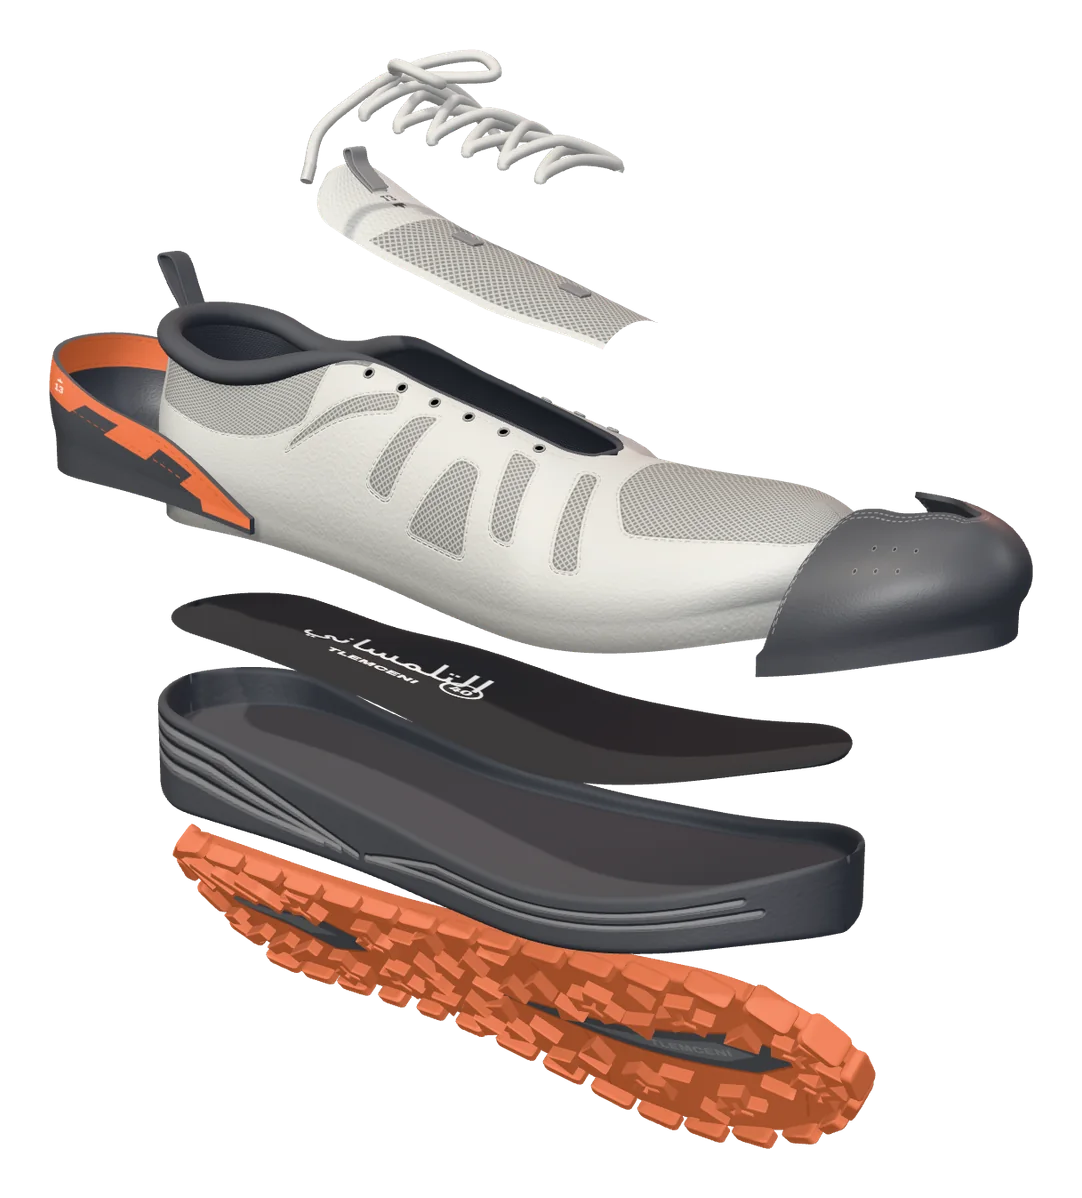
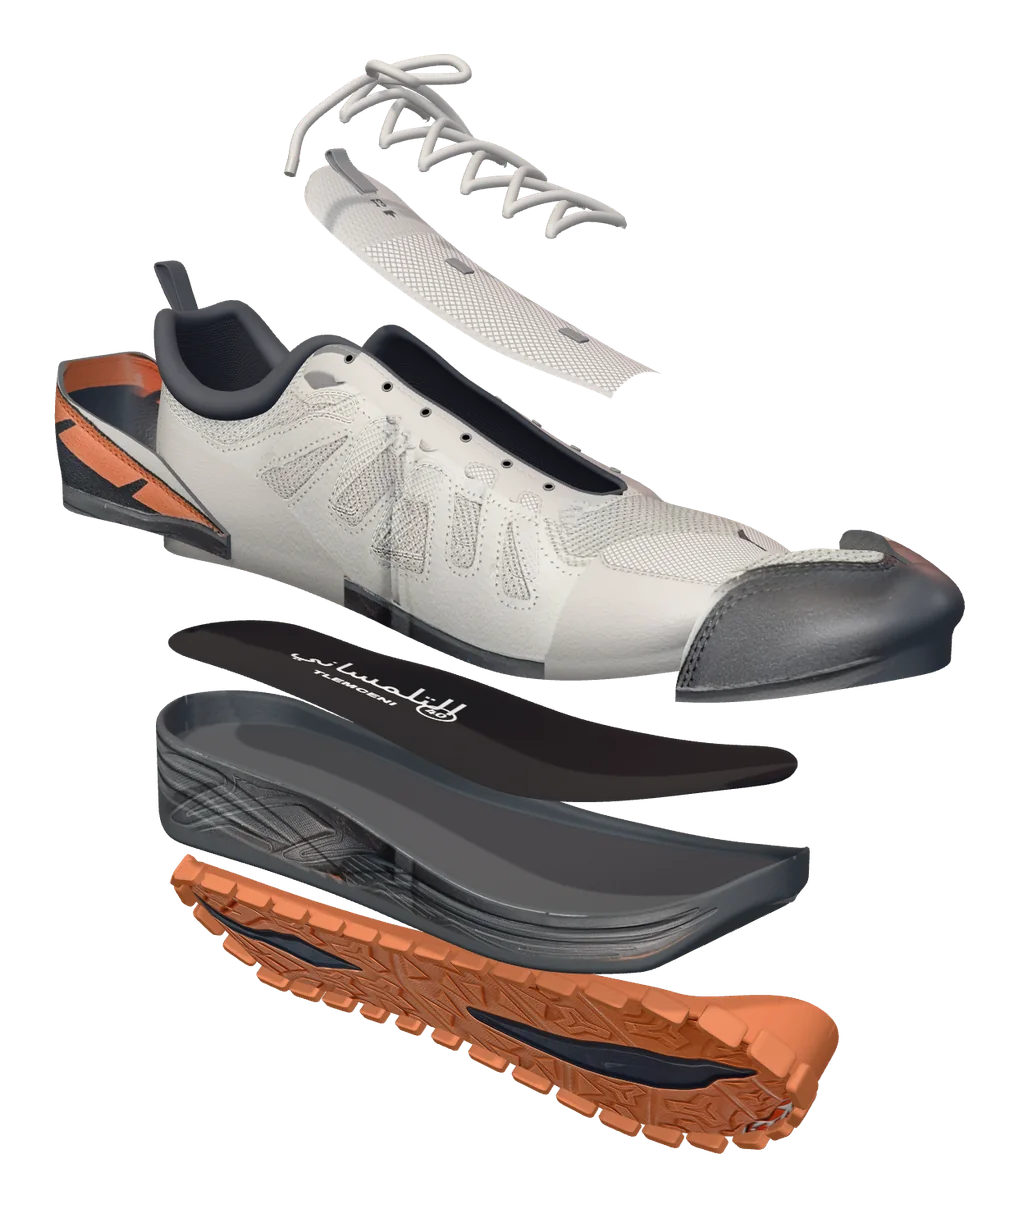
Démo tlemceni : la basket 3D habillée avec les vraies photos du modèle
- Tige, contrefort, pare-pierre et semelle intermédiaire : photos des
  deux profils projetées sur chaque pièce (lacet et pouce effacés)
- Dessous : photo de la semelle recalée sur le contour du modèle, avec
  le relief des crampons tiré de la photo
- Dessus de l'avant-pied et du bout : photo vue de dessus
- Proportions reprises sur la photo de profil (col, laçage, semelle,
  bande orange du talon, bout)
- Coloris « photo » dans content.json, interrupteur dans l'admin ;
  rendus et image de partage refaits

Claude-Session: https://claude.ai/code/session_0119pnVK6Q9DTSQBA1s2pKvM

Changed region(s): [[0.0304, 0.0309, 0.9735, 0.9574]]

diff --git a/sites/tlemceni/sneaker.js b/sites/tlemceni/sneaker.js
@@ -37,9 +37,10 @@ function curve1(pts) {
 /* côté extérieur (latéral) en z positif, sol en y = 0.                */
 /* ------------------------------------------------------------------ */
 const L = 2.9, X0 = -1.45, X1 = 1.45;
-const X_BACK = -1.36, X_THROAT = 0.52, X_RIDGE_END = 1.3;
+const X_BACK = -1.36, X_THROAT = 0.7, X_RIDGE_END = 1.3;
 const RIM = 0.045; // épaisseur du rebord de la semelle intermédiaire
-const OUT_T = 0.06; // épaisseur de la semelle extérieure (hors crampons)
+// épaisseur de la semelle extérieure (hors crampons) : elle remonte sur la pointe et un peu au talon
+const outT = (x) => 0.06 + 0.2 * smooth(1.1, 1.47, x) + 0.04 * smooth(-1.2, -1.45, x);
 const LUG = 0.045; // hauteur des crampons
 
 // demi-largeurs de la semelle (avant arrondi du talon et de la pointe)
@@ -65,15 +66,16 @@ function halfW(x, side, inset = 0) {
 
 const spring = (x) => 0.14 * smooth(0.25, 1.45, x) ** 2; // la pointe se relève
 const bevel = (x) => 0.05 * smooth(-1.05, -1.45, x) ** 2; // biseau du talon
-const footbed = (x) => lerp(0.285, 0.185, smooth(-0.95, 0.65, x)); // 10 mm de drop
-const RIM_L = curve1([[-1.45, 0.15], [-1.15, 0.13], [-0.8, 0.08], [-0.5, 0.058], [0, 0.055], [0.6, 0.062], [1.1, 0.072], [1.3, 0.09], [1.45, 0.12]]);
-const RIM_M = curve1([[-1.45, 0.15], [-1.15, 0.13], [-0.8, 0.088], [-0.5, 0.08], [-0.1, 0.072], [0.4, 0.062], [1.1, 0.072], [1.3, 0.09], [1.45, 0.12]]);
+const footbed = (x) => lerp(0.37, 0.24, smooth(-0.95, 0.65, x)); // 13 mm de drop
+const RIM_L = curve1([[-1.45, 0.15], [-1.2, 0.12], [-1.0, 0.1], [-0.8, 0.088], [-0.6, 0.089], [-0.3, 0.1], [-0.1, 0.088], [0.1, 0.074], [0.3, 0.061], [0.5, 0.055], [0.7, 0.05], [1.0, 0.043], [1.1, 0.045], [1.2, 0.058], [1.3, 0.087], [1.38, 0.128], [1.45, 0.16]]);
+const RIM_M = curve1([[-1.45, 0.15], [-1.2, 0.12], [-1.0, 0.1], [-0.8, 0.09], [-0.6, 0.096], [-0.3, 0.108], [-0.1, 0.095], [0.1, 0.08], [0.3, 0.064], [0.5, 0.056], [0.7, 0.05], [1.0, 0.043], [1.1, 0.045], [1.2, 0.058], [1.3, 0.087], [1.38, 0.128], [1.45, 0.16]]);
 const rimY = (x, side) => footbed(x) + (side > 0 ? RIM_L(x) : RIM_M(x));
 
-// ouverture du chaussant : demi-largeur, hauteur du bord ; arête du dessus de pied
-const OW = curve1([[-1.36, 0.25], [-1.1, 0.27], [-0.85, 0.262], [-0.6, 0.205], [-0.4, 0.155], [0, 0.138], [0.3, 0.128], [0.52, 0.12]]);
-const OY = curve1([[-1.36, 0.95], [-1.25, 0.915], [-1.0, 0.835], [-0.78, 0.85], [-0.6, 0.9], [-0.42, 0.925], [-0.1, 0.855], [0.25, 0.775], [0.52, 0.705]]);
-const RY = curve1([[0.52, 0.705], [0.8, 0.665], [1.05, 0.62], [1.2, 0.585], [1.3, 0.55]]);
+// ouverture du chaussant : demi-largeur, hauteur du bord ; arête du dessus de pied.
+// Hauteurs relevées sur la photo de profil du modèle (col haut au talon, laçage long).
+const OW = curve1([[-1.36, 0.25], [-1.1, 0.27], [-0.85, 0.262], [-0.6, 0.205], [-0.4, 0.155], [0, 0.138], [0.3, 0.128], [0.52, 0.12], [0.7, 0.112]]);
+const OY = curve1([[-1.36, 1.2], [-1.3, 1.225], [-1.25, 1.155], [-1.2, 1.08], [-1.1, 0.993], [-1.0, 0.957], [-0.9, 0.953], [-0.8, 0.97], [-0.7, 1.018], [-0.6, 1.13], [-0.52, 1.2], [-0.45, 1.222], [-0.3, 1.186], [-0.1, 1.085], [0.1, 1.008], [0.3, 0.921], [0.5, 0.849], [0.7, 0.785]]);
+const RY = curve1([[0.7, 0.785], [0.8, 0.753], [0.9, 0.728], [1.0, 0.7], [1.1, 0.665], [1.2, 0.618], [1.3, 0.565]]);
 function openW(x) {
   const a = X_BACK, b = X_THROAT;
   if (x <= a || x >= b) return 0;
@@ -621,13 +623,13 @@ export function createSneaker({ quality = 1 } = {}) {
 
   // Relevé sur les photos du modèle : fenêtres de maille sous les renforts lisses.
   // Côté extérieur : grande fenêtre sous le col, cinq fentes arrondies en éventail, avant-pied en maille.
-  const REAR_L = [[-1.27, 0.56], [-0.7, 0.48], [-0.56, 0.52], [-0.5, 1.04], [-1.27, 1.04]];
+  const REAR_L = [[-1.4, 0.87], [-1.22, 0.74], [-0.99, 0.8], [-0.8, 0.71], [-0.67, 0.69], [-0.56, 0.68], [-0.5, 1.04], [-1.4, 1.04]];
   const SLOTS_L = [
-    [[-0.615, 0.385], [-0.6, 0.425], [-0.19, 0.8], [-0.175, 0.69]],
-    [[-0.09, 0.71], [0.0, 0.77], [-0.125, 0.285], [-0.227, 0.315]],
-    [[0.147, 0.61], [0.237, 0.6], [0.243, 0.19], [-0.018, 0.2]],
-    [[0.317, 0.79], [0.419, 0.78], [0.442, 0.335], [0.352, 0.345]],
-    [[0.538, 0.79], [0.6, 0.78], [0.707, 0.28], [0.611, 0.28]],
+    [[-0.693, 0.479], [-0.682, 0.514], [-0.264, 0.652], [-0.259, 0.565]],
+    [[-0.165, 0.624], [-0.071, 0.724], [-0.189, 0.256], [-0.306, 0.235]],
+    [[0.082, 0.586], [0.176, 0.624], [0.181, 0.261], [-0.089, 0.177]],
+    [[0.258, 0.751], [0.364, 0.804], [0.388, 0.423], [0.294, 0.396]],
+    [[0.488, 0.771], [0.552, 0.788], [0.663, 0.395], [0.563, 0.379]],
   ];
   // Côté intérieur : fenêtres en triangle et trapèze, soulignées de lignes noires « circuit ».
   const REAR_M = [[-1.22, 0.62], [-0.68, 0.55], [-0.57, 0.62], [-0.54, 1.04], [-1.22, 1.04]];
@@ -644,8 +646,8 @@ export function createSneaker({ quality = 1 } = {}) {
     { w: 1, dash: true, pts: [[0.51, 0.28], [0.51, 0.66]] },
     { w: 0.4, pts: [[-0.62, 0.36], [-0.22, 0.17], [0.22, 0.17], [0.25, 0.11], [0.95, 0.11]] },
   ];
-  const VAMP = [[0.68, 1.04], [0.7, 0.74], [0.82, 0.5], [1.42, 0.46], [1.42, 1.04]];
-  const PATCH = [[-0.5, 0.86], [-0.36, 0.88], [-0.36, 0.975], [-0.5, 0.965]]; // pastille du dernier oeillet
+  const VAMP = [[0.74, 1.04], [0.77, 0.74], [0.88, 0.52], [1.42, 0.46], [1.42, 1.04]];
+  const PATCH = [[-0.52, 0.83], [-0.33, 0.85], [-0.33, 0.96], [-0.52, 0.95]]; // pastille du dernier oeillet
 
   // polygone (pixels) décalé de d vers l'extérieur
   function offsetPoly(P, d) {
@@ -814,7 +816,7 @@ export function createSneaker({ quality = 1 } = {}) {
   const matLaces = new THREE.MeshPhysicalMaterial({ color: '#d9d9d6', normalMap: braidN, normalScale: new THREE.Vector2(0.8, 0.8), roughness: 0.8, sheen: 0.7, sheenRoughness: 0.6 });
 
   /* ---------------- tige ---------------- */
-  const pUpper = part('upper', V3(-0.35, 0.62, 0.36), V3(0, 0, 0));
+  const pUpper = part('upper', V3(-0.3, 0.72, 0.4), V3(0, 0, 0));
   {
     const NT = hi ? 220 : 150, NV = hi ? 40 : 28;
     const cols = [];
@@ -860,7 +862,7 @@ export function createSneaker({ quality = 1 } = {}) {
     const curve = new THREE.CatmullRomCurve3(pts, false, 'centripetal');
     const rAt = (t) => {
       const p2 = curve.getPointAt(t);
-      return 0.012 + 0.03 * smooth(-0.25, -0.75, p2.x);
+      return 0.012 + 0.042 * smooth(-0.3, -0.75, p2.x) * (1 - 0.45 * smooth(-1.1, -1.36, p2.x));
     };
     const cg = tube(curve, hi ? 260 : 160, hi ? 14 : 10, rAt);
     // on descend légèrement le bourrelet pour qu'il chevauche le bord
@@ -890,7 +892,7 @@ export function createSneaker({ quality = 1 } = {}) {
   const eyelets = { 1: [], [-1]: [] };
   for (const side of [1, -1]) {
     for (let i = 0; i < EYE; i++) {
-      const x = lerp(0.38, -0.34, i / (EYE - 1));
+      const x = lerp(0.55, -0.35, i / (EYE - 1));
       const th = thetaAt(x, side);
       const T = upperPoint(th, 1);
       let t = 1, p = V3();
@@ -927,7 +929,7 @@ export function createSneaker({ quality = 1 } = {}) {
     pUpper.eyeletMat = matEyelet;
   }
 
-  const pLaces = part('laces', V3(-0.5, 1.02, 0.1), V3(0, 0.82, 0));
+  const pLaces = part('laces', V3(-0.2, 1.25, 0.1), V3(0, 0.82, 0));
   {
     const R = 0.019;
     const lift = (e, h) => e.p.clone().addScaledVector(e.n, h);
@@ -1019,14 +1021,14 @@ export function createSneaker({ quality = 1 } = {}) {
   const tongueColor = makeCanvas(512, 1024);
   const tongueN = keep(toTex(heightToNormal(meshTile(128), 3), false, [3, 6]));
   const matTongue = new THREE.MeshPhysicalMaterial({ map: keep(toTex(tongueColor, true)), normalMap: tongueN, normalScale: new THREE.Vector2(0.6, 0.6), roughness: 0.8, sheen: 0.5, sheenRoughness: 0.6 });
-  const pTongue = part('tongue', V3(-0.47, 0.99, 0), V3(-0.1, 0.48, 0));
+  const pTongue = part('tongue', V3(-0.47, 1.28, 0), V3(-0.1, 0.48, 0));
   const tongueCurve = new THREE.CatmullRomCurve3([
-    V3(0.72, RY(0.72) + spring(0.72) - 0.05, 0),
-    V3(0.45, OY(0.45) + spring(0.45) - 0.012, 0),
-    V3(0.1, OY(0.1) + spring(0.1) - 0.004, 0),
+    V3(0.9, RY(0.9) + spring(0.9) - 0.05, 0),
+    V3(0.63, OY(0.63) + spring(0.63) - 0.012, 0),
+    V3(0.2, OY(0.2) + spring(0.2) - 0.004, 0),
     V3(-0.26, OY(-0.26) + 0.004, 0),
-    V3(-0.42, 0.96, 0),
-    V3(-0.52, 1.045, 0),
+    V3(-0.42, OY(-0.42) + 0.045, 0),
+    V3(-0.52, OY(-0.52) + 0.12, 0),
   ], false, 'centripetal');
   const tongueLen = tongueCurve.getLength();
   {
@@ -1084,7 +1086,7 @@ export function createSneaker({ quality = 1 } = {}) {
   // --- semelle intérieure (anatomique, amovible)
   const insoleColor = makeCanvas(1024, 384);
   const matInsole = new THREE.MeshPhysicalMaterial({ map: keep(toTex(insoleColor, true)), normalMap: foamN, normalScale: new THREE.Vector2(0.4, 0.4), roughness: 0.92, sheen: 0.5, sheenRoughness: 0.7 });
-  const pInsole = part('insole', V3(-0.9, 0.42, 0), V3(0, -0.44, 0));
+  const pInsole = part('insole', V3(-0.9, 0.5, 0), V3(0, -0.44, 0));
   {
     const ins = IN + 0.004;
     const mid = (a, b) => {
@@ -1110,13 +1112,13 @@ export function createSneaker({ quality = 1 } = {}) {
   const midColor = makeCanvas(1024, 512);
   const midHeight = makeCanvas(1024, 512);
   const matMid = new THREE.MeshPhysicalMaterial({ map: keep(toTex(midColor, true)), roughness: 0.66, sheen: 0.2 });
-  const pMid = part('midsole', V3(-0.95, 0.26, 0.37), V3(0, -0.84, 0));
+  const pMid = part('midsole', V3(-0.95, 0.3, 0.37), V3(0, -0.84, 0));
   let midMarks;
   {
     const K = [];
     const sect = (x) => {
       const wl = halfW(x, 1), wm = halfW(x, -1);
-      const yb = bevel(x) + OUT_T, yf = footbed(x), rl = rimY(x, 1), rm = rimY(x, -1);
+      const yb = bevel(x) + outT(x), yf = footbed(x), rl = rimY(x, 1), rm = rimY(x, -1);
       const tl = Math.min(RIM, wl * 0.45), tm = Math.min(RIM, wm * 0.45);
       const rbl = Math.min(0.03, wl * 0.5), rbm = Math.min(0.03, wm * 0.5);
       const rfl = Math.min(0.014, (wl - tl) * 0.5), rfm = Math.min(0.014, (wm - tm) * 0.5);
@@ -1193,7 +1195,7 @@ export function createSneaker({ quality = 1 } = {}) {
   {
     const sect = (x) => {
       const wl = halfW(x, 1) * 1.012, wm = halfW(x, -1) * 1.012;
-      const yb = bevel(x), yt = yb + OUT_T;
+      const yb = bevel(x), yt = yb + outT(x);
       const rbl = Math.min(0.022, wl * 0.5), rbm = Math.min(0.022, wm * 0.5);
       const rtl = Math.min(0.008, wl * 0.3), rtm = Math.min(0.008, wm * 0.3);
       const P = pathBuilder();
@@ -1279,6 +1281,7 @@ export function createSneaker({ quality = 1 } = {}) {
     barShape.closePath();
     const geos = { y: ext(yShape), tri: ext(triShape), bar: ext(barShape) };
     const o = new THREE.Object3D();
+    pOut.bottomLugs = [];
     for (const type of Object.keys(geos)) {
       const list = LUGS.filter((l) => l.type === type);
       const m = new THREE.InstancedMesh(geos[type], matLug, list.length);
@@ -1293,6 +1296,7 @@ export function createSneaker({ quality = 1 } = {}) {
       m.castShadow = true;
       m.receiveShadow = true;
       pOut.group.add(m);
+      pOut.bottomLugs.push(m);
     }
     // crampons de bord, à pas régulier le long du contour
     const ring = [];
@@ -1393,9 +1397,10 @@ export function createSneaker({ quality = 1 } = {}) {
   const signedU = (theta) => (theta >= 0 ? arcU(theta) : arcU(1 + theta) - 1);
 
   // --- contrefort de talon : coque anthracite au bord en diagonale, bande orange zébrée
-  const XF_H = -0.2; // pointe avant du contrefort, au ras de la semelle
-  const hTop = (x) => 0.56 * clamp((XF_H - x) / (XF_H + 1.25)) + 0.03 * smooth(-1.25, -1.41, x);
-  const hBand = (x) => 0.29 * clamp((-0.46 - x) / (-0.46 + 1.25)) + 0.02 * smooth(-1.25, -1.41, x);
+  // bord haut et bas de la bande orange, relevés sur la photo (v : 0 au ras de la semelle, 1 au bord)
+  const XF_H = -0.28; // pointe avant du contrefort, au ras de la semelle
+  const hTop = curve1([[-1.42, 0.6], [-1.27, 0.58], [-1.1, 0.62], [-0.93, 0.55], [-0.75, 0.37], [-0.58, 0.18], [-0.41, 0.065], [XF_H, 0]]);
+  const hBand = curve1([[-1.42, 0.4], [-1.23, 0.33], [-1.04, 0.3], [-0.78, 0.156], [-0.58, 0.057], [-0.41, 0]]);
   const TH_HL = thetaAt(XF_H, 1), TH_HM = 1 - thetaAt(XF_H, -1);
   const heelFn = (a, b) => {
     const s = a * 2 - 1; // -1 intérieur, 1 extérieur
@@ -1411,7 +1416,7 @@ export function createSneaker({ quality = 1 } = {}) {
   const hpx = (c, x, side, v) => [((signedU(side > 0 ? thetaAt(x, 1) : thetaAt(x, -1) - 1) - UH0) / (UH1 - UH0)) * c.width, (1 - tv(v)) * c.height];
   const counterColor = makeCanvas(hi ? 2048 : 1024, hi ? 512 : 256);
   const matCounter = new THREE.MeshPhysicalMaterial({ map: keep(toTex(counterColor, true)), normalMap: shellGrainN, normalScale: new THREE.Vector2(0.5, 0.5), roughness: 0.52, clearcoat: 0.25, clearcoatRoughness: 0.4 });
-  const pHeel = part('heel', V3(-1.52, 0.66, 0), V3(-0.55, 0.06, 0));
+  const pHeel = part('heel', V3(-1.52, 0.8, 0), V3(-0.55, 0.06, 0));
   add(pHeel, shell(heelFn, hi ? 110 : 70, hi ? 18 : 12, 0.004, 0.024, heelUV), matCounter);
   function drawCounter(c, cw) {
     const ctx = c.getContext('2d'), W = c.width, H = c.height;
@@ -1475,8 +1480,9 @@ export function createSneaker({ quality = 1 } = {}) {
   }
 
   // --- pare-pierre : bout anthracite perforé, bord festonné
-  const XF_T = 0.86;
-  const tTop = (x) => clamp(0.8 * smooth(XF_T, 1.02, x) + 0.12 * smooth(1.05, 1.38, x) + 0.022 * Math.sin((x - 1.0) * 30) * smooth(1.0, 1.08, x) * (1 - smooth(1.26, 1.36, x)));
+  const XF_T = 0.745;
+  const TOE_EDGE = curve1([[XF_T, 0], [0.786, 0.27], [0.832, 0.51], [0.9, 0.64], [0.98, 0.71], [1.1, 0.8], [1.156, 0.88], [1.2, 0.93], [1.45, 0.95]]);
+  const tTop = (x) => clamp(TOE_EDGE(x) + 0.02 * Math.sin((x - 1.0) * 30) * smooth(1.0, 1.08, x) * (1 - smooth(1.2, 1.3, x)));
   const TH_TL = 0.5 - thetaAt(XF_T, 1), TH_TM = thetaAt(XF_T, -1) - 0.5;
   const toeFn = (a, b) => {
     const s = a * 2 - 1; // -1 extérieur, 1 intérieur
@@ -1675,9 +1681,41 @@ export function createSneaker({ quality = 1 } = {}) {
     return `#${c.getHexString()}`;
   }
 
-  // `which` : nom d'un coloris intégré, ou palette { mesh, skin, line, accent, ... } venue de l'admin
+  /* ---------------- textures photo (le modèle réel) ---------------- */
+  // Les photos du modèle en boutique, projetées sur chaque pièce par un outil de préparation
+  // hors ligne, remplacent les textures dessinées quand le coloris le demande (`photo: true`).
+  const PHOTO_MAPS = { upper: 'tige', counter: 'talon', toe: 'bout', midsole: 'semelle-inter', outsole: 'dessous' };
+  const photoMats = { upper: matUpper, counter: matCounter, toe: matToe, midsole: matMid, outsole: matOut };
+  const drawnMaps = Object.fromEntries(Object.entries(photoMats).map(([k, m]) => [k, m.map]));
+  let photoMaps = null;
+  function loadPhotoMaps() {
+    if (!photoMaps) {
+      const loader = new THREE.TextureLoader();
+      photoMaps = Promise.all(
+        Object.entries(PHOTO_MAPS).map(async ([k, f]) => {
+          const t = await loader.loadAsync(new URL(`./img/tex/${f}${hi ? '' : '-m'}.webp`, import.meta.url).href);
+          t.colorSpace = THREE.SRGBColorSpace;
+          t.anisotropy = 8;
+          return [k, keep(t)];
+        }),
+      ).then(Object.fromEntries);
+    }
+    return photoMaps;
+  }
+  function usePhoto(maps) {
+    for (const [k, m] of Object.entries(photoMats)) m.map = maps ? maps[k] : drawnMaps[k];
+    // relief des crampons tiré de la photo du dessous (le rouge est clair sur la gomme, sombre dans les creux)
+    matOut.bumpMap = maps ? maps.outsole : null;
+    matOut.bumpScale = 3;
+    matOut.needsUpdate = true;
+    pOut.bottomLugs.forEach((m) => (m.visible = !maps)); // les crampons sont dans la photo du dessous
+  }
+  let colorSeq = 0;
+
+  // `which` : nom d'un coloris intégré, ou palette { mesh, skin, line, accent, ... } venue de l'admin.
+  // Avec `photo`, les pièces prennent les textures photo une fois chargées (promesse renvoyée).
   const xrayTint = new THREE.Color();
-  function setColorway(which) {
+  function setColorway(which, { photo = false } = {}) {
     const base = typeof which === 'string' ? COLORWAYS[which] || COLORWAYS.trail : which || COLORWAYS.trail;
     const cw = derive(base);
     drawUpper(cw, 'color');
@@ -1706,6 +1744,21 @@ export function createSneaker({ quality = 1 } = {}) {
     for (const p of Object.values(parts)) for (const m of p.mats) m.userData.base = m.color.clone();
     for (const p of Object.values(parts)) p.group.userData.dim = -1; // force la réapplication de l'atténuation
     current = typeof which === 'string' ? which : 'custom';
+    const seq = ++colorSeq;
+    if (!photo) {
+      usePhoto(null);
+      return Promise.resolve(false);
+    }
+    return loadPhotoMaps().then(
+      (maps) => {
+        if (seq === colorSeq) usePhoto(maps);
+        return true;
+      },
+      (err) => {
+        console.warn('Textures photo indisponibles : textures dessinées à la place.', err);
+        return false;
+      },
+    );
   }
   let current = 'trail';
   setColorway('trail');
@@ -1766,6 +1819,14 @@ export function createSneaker({ quality = 1 } = {}) {
       return current;
     },
     anchorWorld,
+    // pour l'outil de préparation des textures photo : géométrie des pièces et textures dessinées
+    get bake() {
+      return {
+        column, colPoint, perim, arcU, halfW, rimY, spring, OY, RY, openPt, X_THROAT, X_BACK, X_RIDGE_END, X0, L, T0, midMarks,
+        UH: [UH0, UH1], UT: [UT0, UT1], XF_H, XF_T, hTop, tTop,
+        canvases: { upper: upperColor, counter: counterColor, toe: toeColor, midsole: midColor, outsole: outColor },
+      };
+    },
     dispose() {
       disposables.forEach((d) => d.dispose && d.dispose());
     },

diff --git a/sites/tlemceni/index.html b/sites/tlemceni/index.html
@@ -95,8 +95,8 @@
       </div>
       <canvas class="x__canvas" id="scene" aria-hidden="true"></canvas>
       <div class="x__fallback" id="fallback" aria-hidden="true">
-        <img src="img/basket.webp" alt="" data-v="assembled" width="1140" height="588">
-        <img src="img/eclate.webp" alt="" data-v="exploded" width="1094" height="1164">
+        <img src="img/basket.webp" alt="" data-v="assembled" width="1140" height="659">
+        <img src="img/eclate.webp" alt="" data-v="exploded" width="1019" height="1208">
       </div>
       <svg class="x__lines" id="lines" aria-hidden="true"><path id="line" d=""/><circle id="dot" r="5"/><circle id="ring" r="14"/></svg>
       <div class="x__tags" id="tags" aria-hidden="true"></div>
@@ -161,7 +161,7 @@
                 <button type="button" role="radio" aria-checked="false" data-cw="3" style="--a:#dbc8a3;--b:#8a5a33"><i></i><span>Sable</span></button>
               </div>
               <p class="step__cta"><a class="btn btn--red" href="https://tlemcenii.set.shop/" data-link="shop" target="_blank" rel="noopener" data-i18n="cta.shop">Voir la boutique en ligne</a><a class="link" href="#univers" data-i18n="cta.univers">Tous nos univers ↓</a></p>
-              <p class="step__note" data-i18n="s10.note">Modèle 3D reconstitué d'après les photos d'un modèle de la boutique.</p>
+              <p class="step__note" data-i18n="s10.note">Modèle 3D habillé avec les photos du vrai modèle, prises en boutique.</p>
             </div>
           </li>
         </ol>
@@ -208,7 +208,7 @@
       <div class="univers__track">
         <article class="uni uni--shoes">
           <div class="uni__media">
-            <img class="uni__hero" data-img="u1.hero" src="img/r-runner-trail.webp" alt="Basket Trail 13 grise et orange, crampons orange" loading="lazy" width="1336" height="717">
+            <img class="uni__hero" data-img="u1.hero" src="img/r-runner-trail.webp" alt="Basket Trail 13 grise et orange, crampons orange" loading="lazy" width="1336" height="794">
             <div class="uni__minis">
               <img data-img="u1.m1" class="uni__real" src="img/modele-reel.webp" alt="Le modèle en boutique (photo)" loading="lazy" width="560" height="560">
               <img data-img="u1.m2" src="img/r-sandale.webp" alt="Sandale en cuir" loading="lazy" width="648" height="453">

diff --git a/sites/tlemceni/admin/admin.js b/sites/tlemceni/admin/admin.js
@@ -451,6 +451,8 @@ function viewColorways(el) {
           <button class="icon-b icon-b--danger" type="button" data-rm aria-label="Supprimer"${list.length <= 1 ? ' disabled' : ''}>${ICON.trash}</button>
         </div>
         ${lfield(`colorways.${i}.name`, 'Nom du coloris')}
+        <div class="cw__photo">${toggle({ label: 'Habillé avec les photos du vrai modèle', path: `colorways.${i}.photo`, checked: !!cw.photo })}
+          <p class="f__hint">${cw.photo ? 'Tige, talon, bout et semelles viennent des photos : les couleurs ci-dessous servent aux lacets, à la languette, à la doublure et aux zones que les photos ne montrent pas.' : 'Modèle dessiné : toutes les pièces prennent les couleurs ci-dessous.'}</p></div>
         <div class="colors">${PALETTE.map(
           ([k, label]) => `<label class="color"><input type="color" data-cw="${i}" data-key="${k}" value="${esc(cw.colors[k])}"><span>${esc(label)}<small>${esc(cw.colors[k])}</small></span></label>`,
         ).join('')}</div>
@@ -480,7 +482,13 @@ function viewColorways(el) {
     showIn(i, true);
   });
   el.addEventListener('field', (e) => {
-    if (e.detail.dataset.path?.endsWith('.visible')) render();
+    const path = e.detail.dataset.path || '';
+    if (path.endsWith('.visible')) render();
+    if (path.endsWith('.photo')) {
+      saveDraft(C);
+      render();
+      showIn(+path.split('.')[1], true);
+    }
   });
   el.addEventListener('click', async (e) => {
     const box = e.target.closest('.cw');
@@ -507,7 +515,7 @@ function viewColorways(el) {
       return render();
     }
     if (e.target.closest('[data-add]')) {
-      list.push({ id: `cw-${Date.now().toString(36)}`, visible: true, name: { fr: 'Nouveau coloris', ar: '', en: '' }, colors: clone(list[0]?.colors || original.colorways[0].colors) });
+      list.push({ id: `cw-${Date.now().toString(36)}`, visible: true, photo: false, name: { fr: 'Nouveau coloris', ar: '', en: '' }, colors: clone(list[0]?.colors || original.colorways[0].colors) });
       changed();
       render();
     }

diff --git a/sites/tlemceni/app.js b/sites/tlemceni/app.js
@@ -111,7 +111,8 @@ async function main() {
     const { createScene } = await import('./scene.js');
     scene = createScene($('#scene'), { mobile, reducedMotion: reduce });
     const first = visibleColorways()[0];
-    if (first) scene.setColorway(first.colors);
+    // coloris photo : on attend les textures (bornées) pour ne pas montrer la version dessinée
+    if (first) await Promise.race([scene.setColorway(first.colors, { photo: !!first.photo }), wait(8000)]);
     await Promise.race([scene.warm(), wait(6000)]);
   } catch (err) {
     console.warn('3D indisponible, images fixes à la place.', err);
@@ -243,7 +244,7 @@ function selectColorway(i) {
   currentCw = i;
   $$('#swatches button').forEach((x) => x.setAttribute('aria-checked', String(+x.dataset.cw === i)));
   if (scene) {
-    scene.setColorway(list[i].colors);
+    scene.setColorway(list[i].colors, { photo: !!list[i].photo }).then(() => (needsRender = true));
     needsRender = true;
   }
 }

diff --git a/sites/tlemceni/scene.js b/sites/tlemceni/scene.js
@@ -194,8 +194,8 @@ export function createScene(canvas, { mobile = false, reducedMotion = false } = 
       pointer.x = x;
       pointer.y = y;
     },
-    setColorway(name) {
-      sneaker.setColorway(name);
+    setColorway(name, opts) {
+      return sneaker.setColorway(name, opts);
     },
   };
 }

diff --git a/sites/tlemceni/admin/admin.css b/sites/tlemceni/admin/admin.css
@@ -321,3 +321,6 @@ body { overflow-x: clip; }
 .item__img img { width: 96px; }
 .card .f { align-content: start; }
 @media (min-width: 1024px) and (max-width: 1599px) { .status span { display: none; } }
+
+.cw__photo { margin: 4px 0 14px; }
+.cw__photo .f__hint { margin-top: 6px; }
